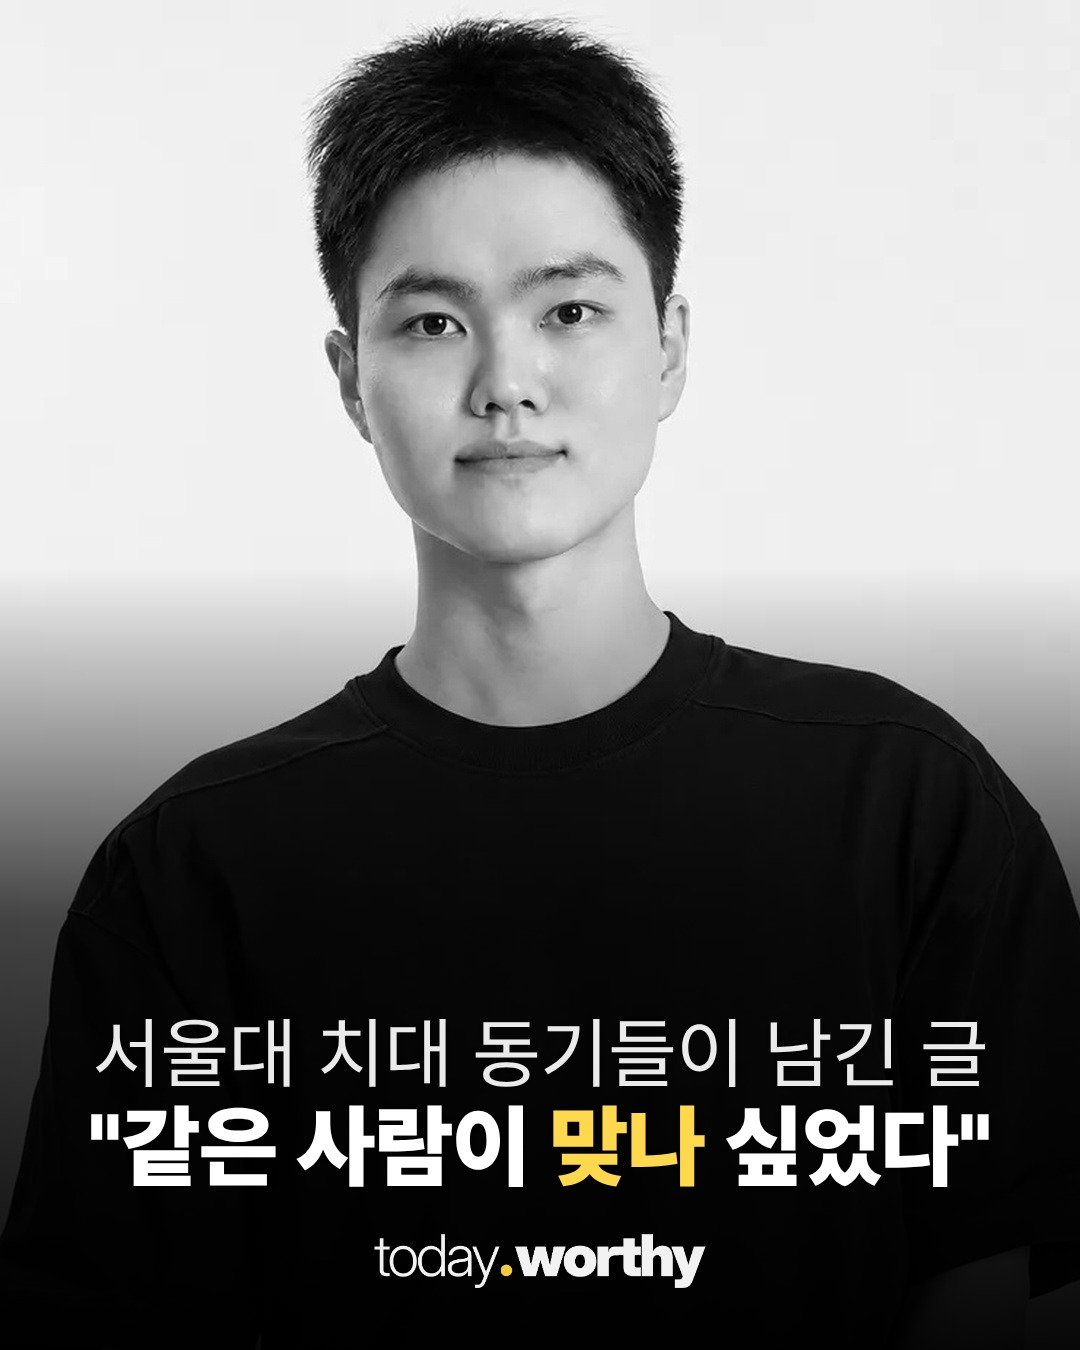
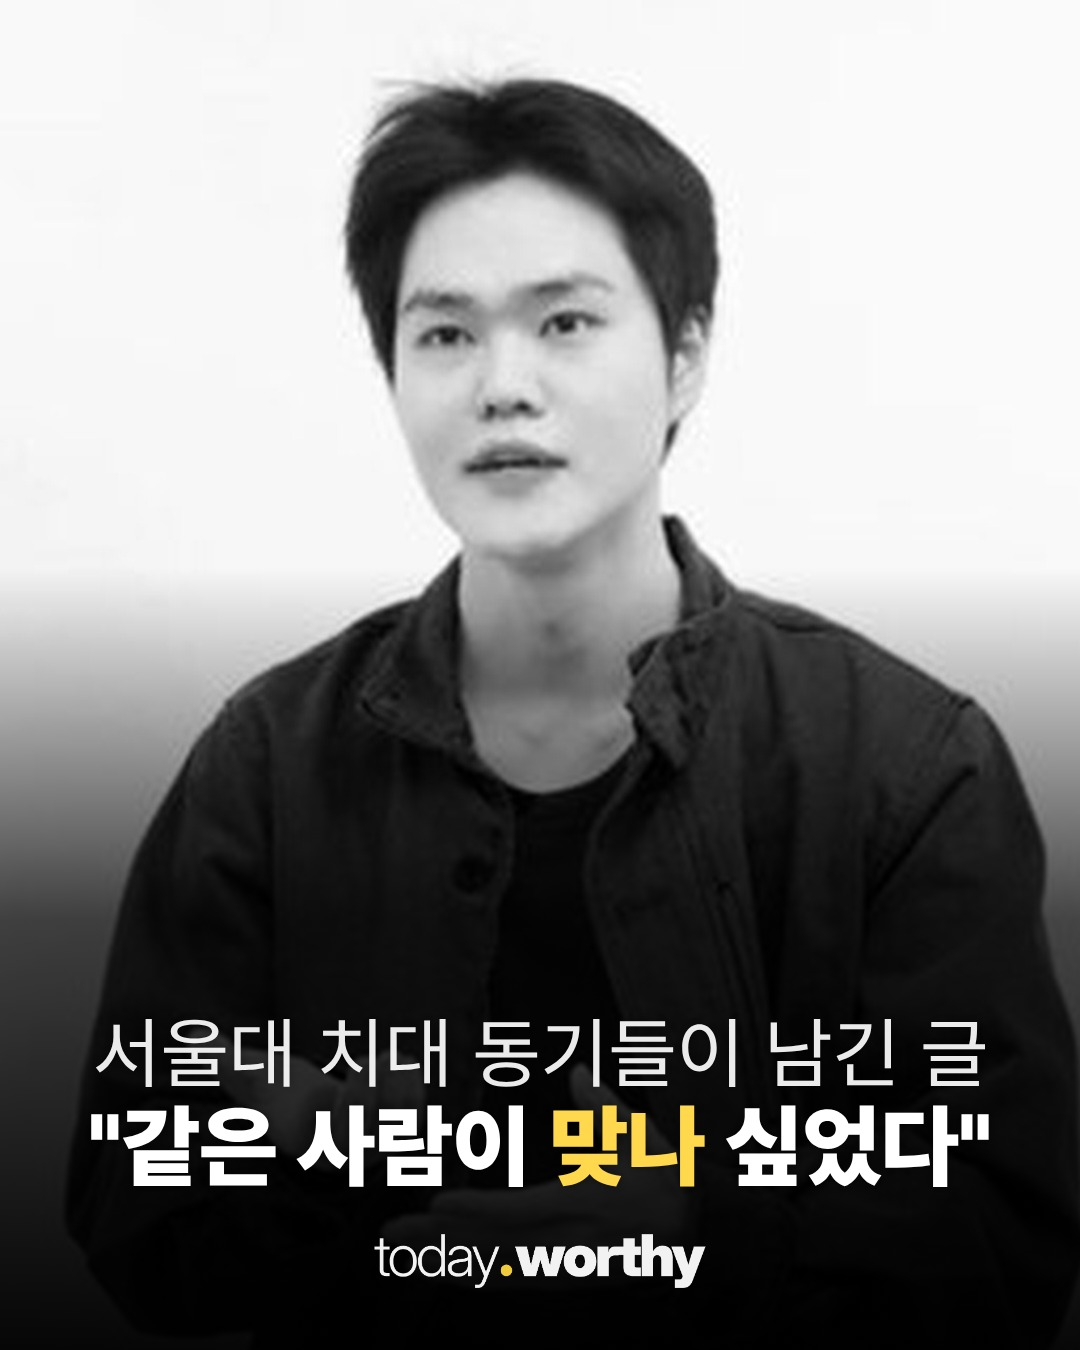
card: leetmates 표지 손짓 인터뷰 사진 흑백으로(게시 안 함)
Claude-Session: https://claude.ai/code/session_01FGsw5R6VSbRXYRyqmxnetV

diff --git a/media/20261120-leetmates/build_cards.py b/media/20261120-leetmates/build_cards.py
@@ -21,3 +21,7 @@ specs = [
 sp = O / "specs.json"; sp.write_text(json.dumps(specs, ensure_ascii=False))
 subprocess.run([sys.executable, str(R / "scripts/post_cap_card.py"), str(sp)], check=True)
 print("ok")
+
+# 표지: 흰 배경 손짓 인터뷰 사진(11/18 특강 게시물 표지에 한 번만 쓴 사진) 흑백. 증명사진은 표지에 8번 써서 바꿈(11/20 사용자 지시)
+from PIL import Image, ImageOps
+ImageOps.grayscale(Image.open(O / "cover_src.jpg")).convert("RGB").save(O / "cover_bg.jpg", quality=94)
